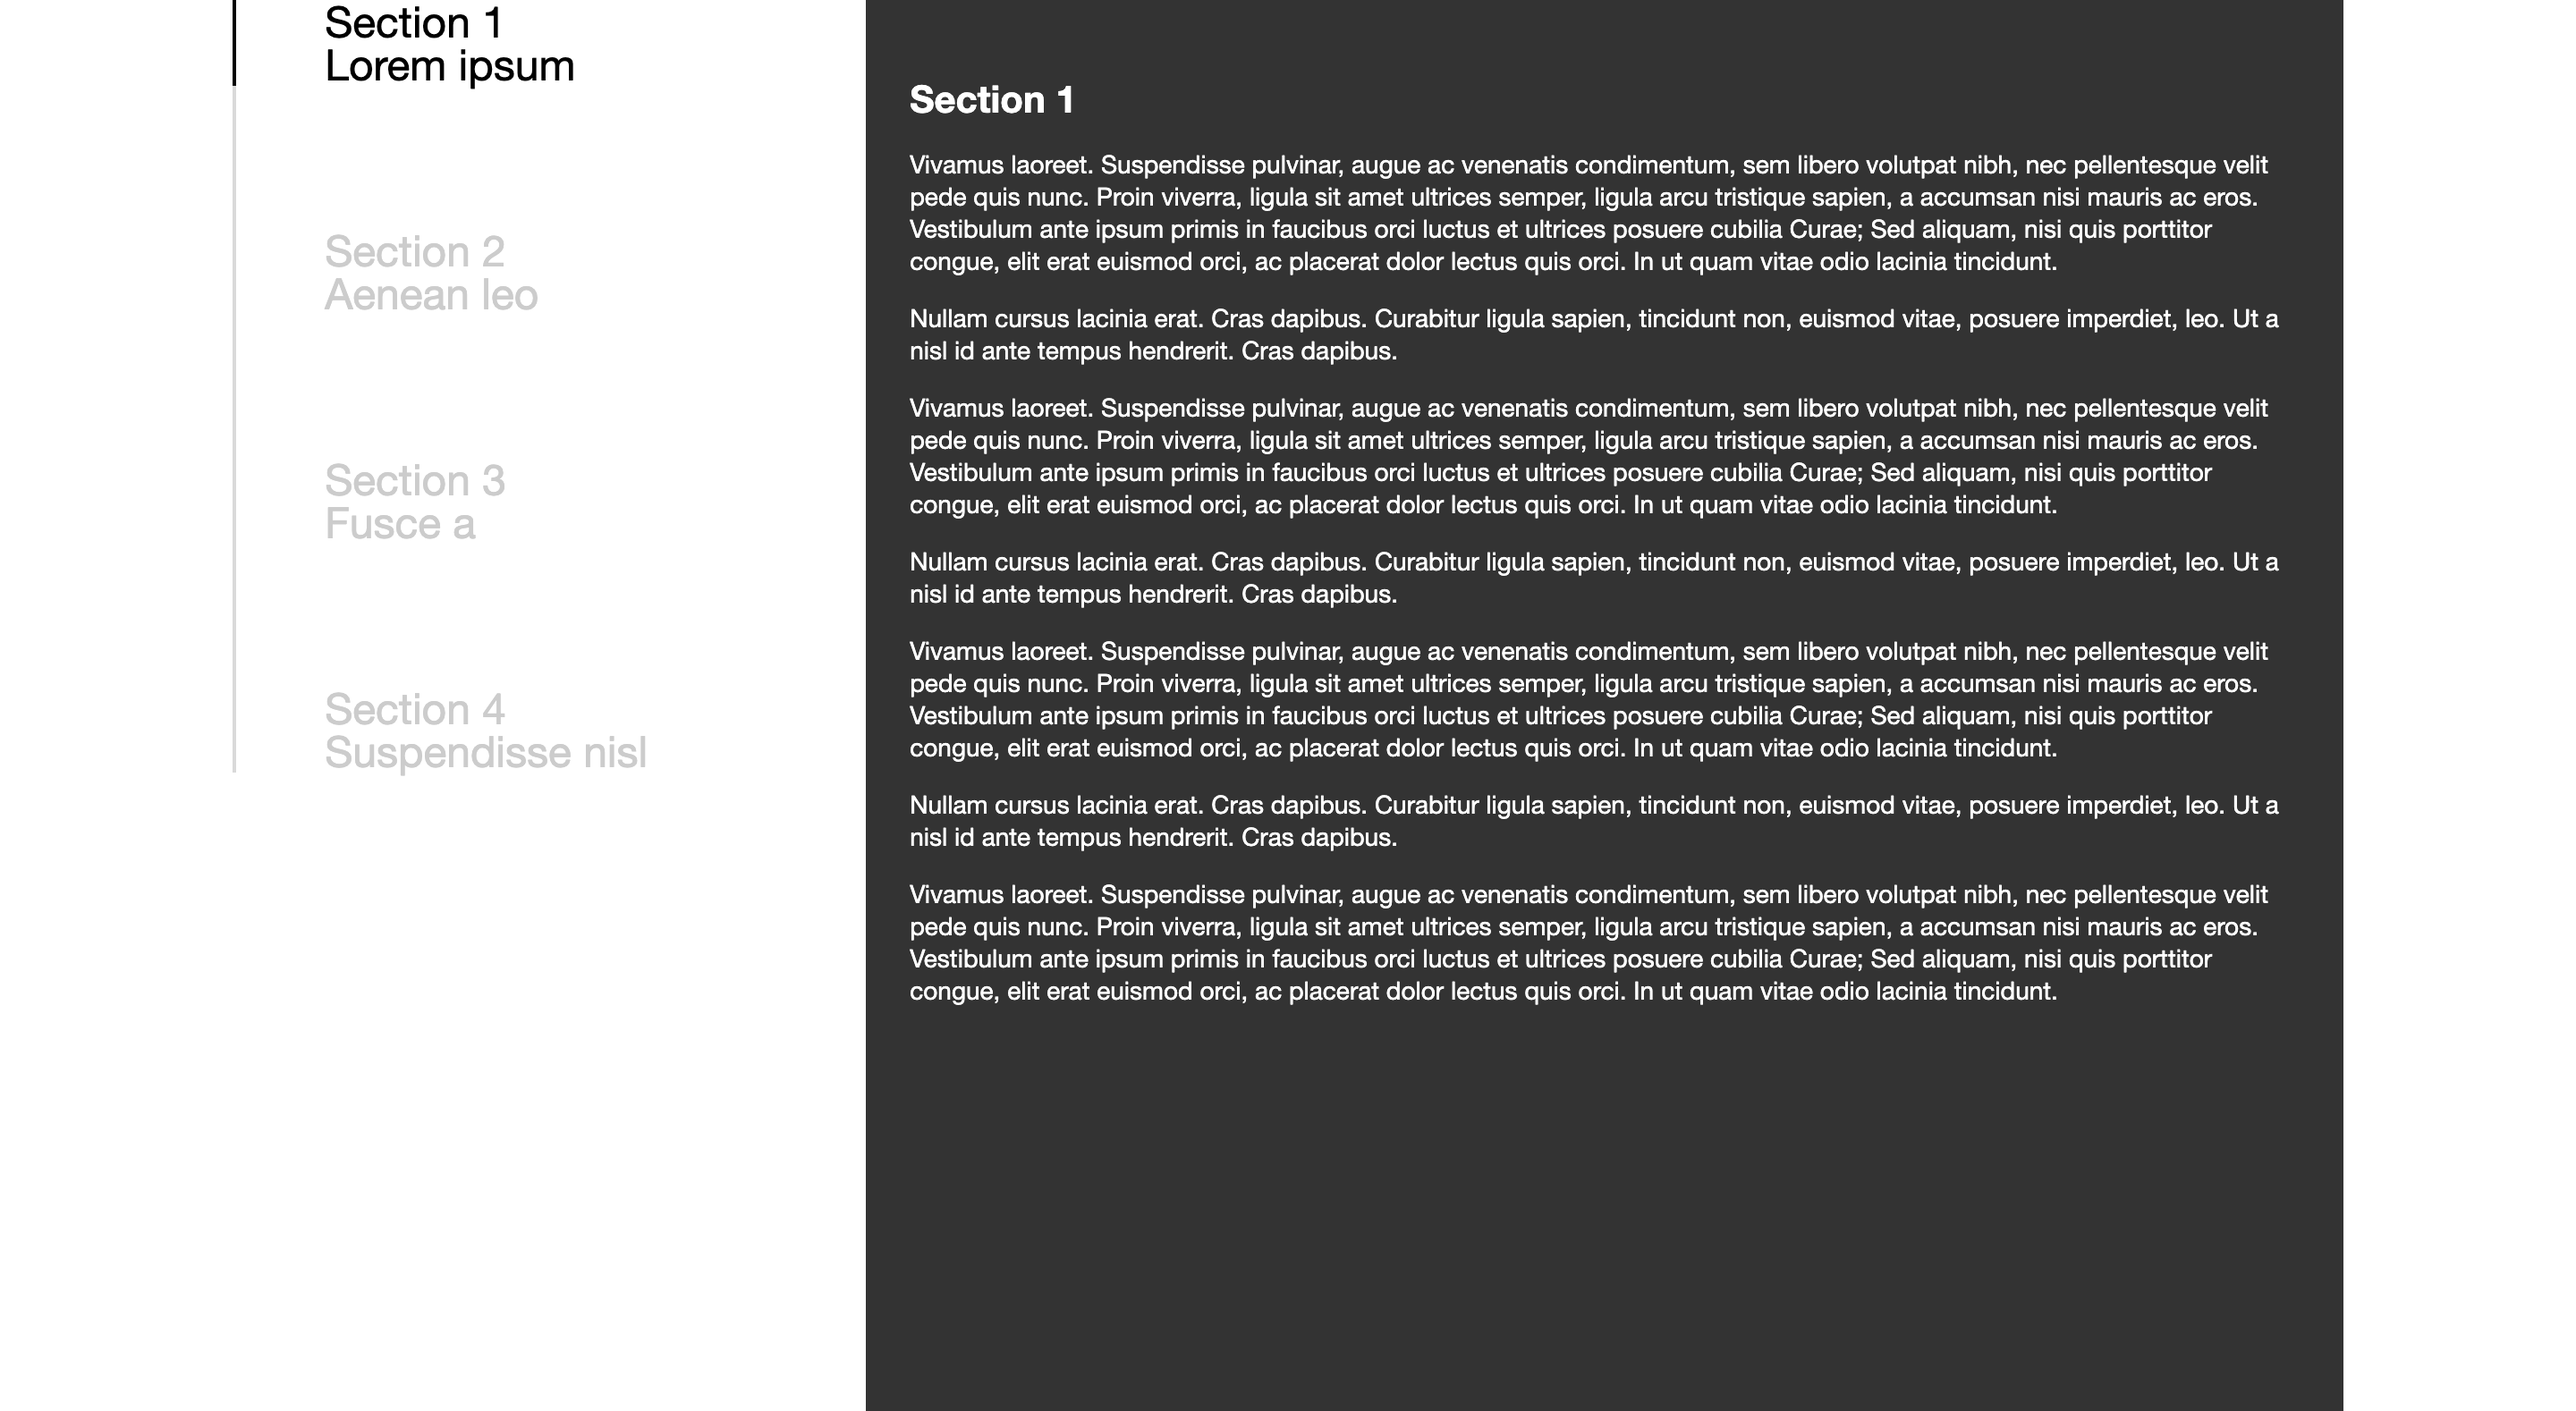
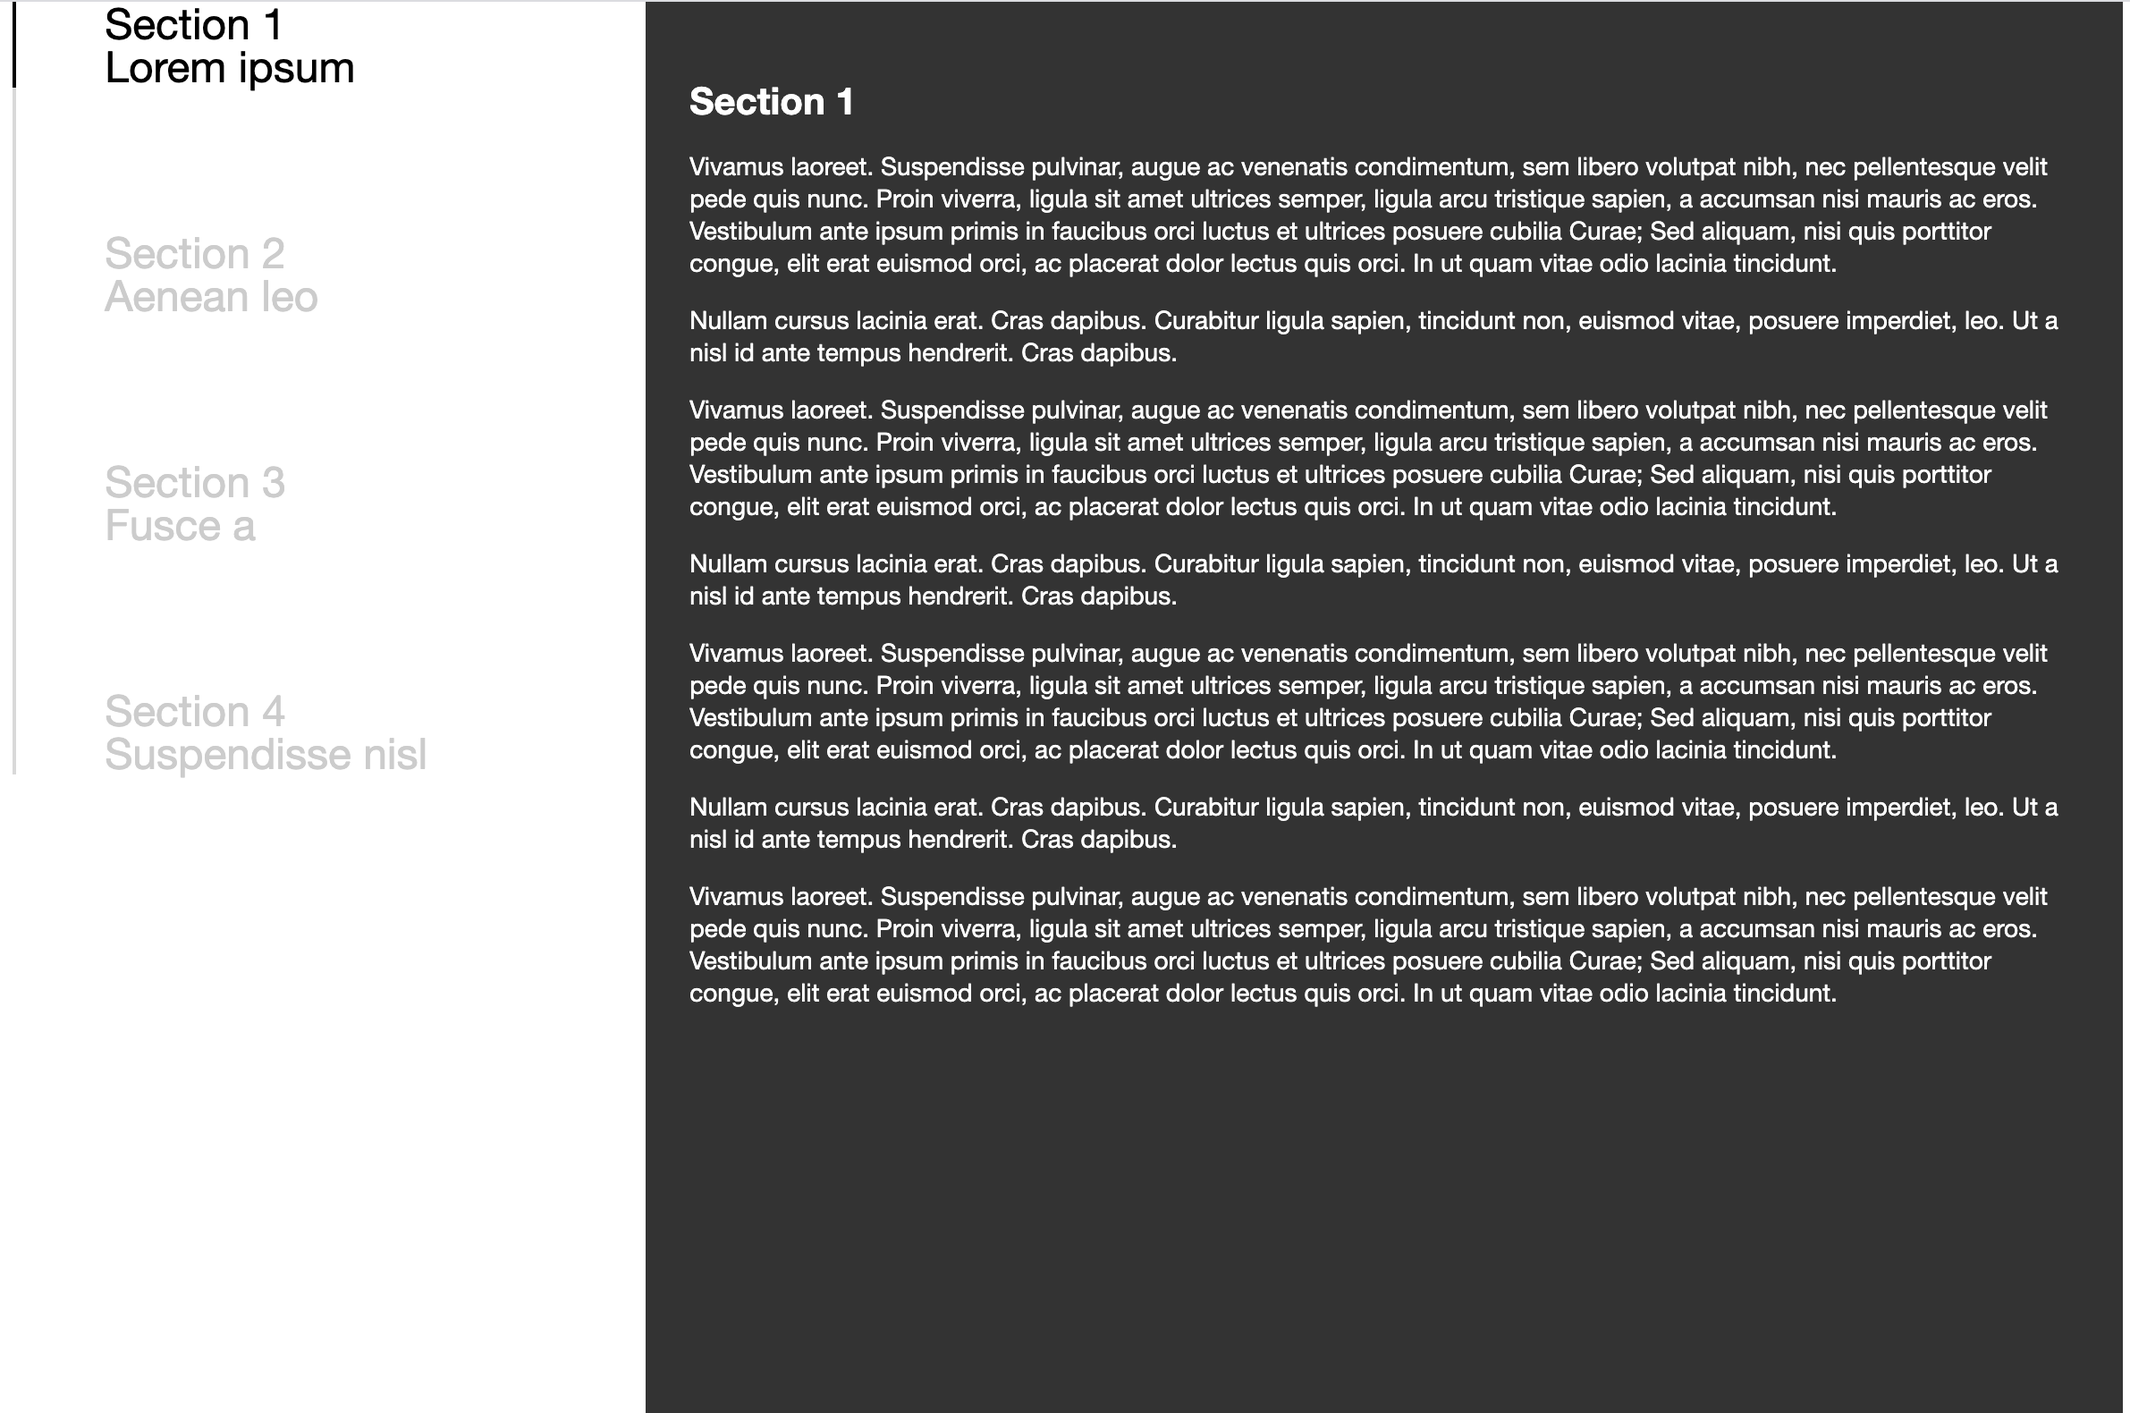
Files updated.

diff --git a/README.md b/README.md
@@ -16,4 +16,4 @@ JS:
 - <b>script.js</b> file used for jquery.
 
 Screenshot:
-- ![Screenshot](screenshot.png)
+![Screenshot](screenshot.png)
